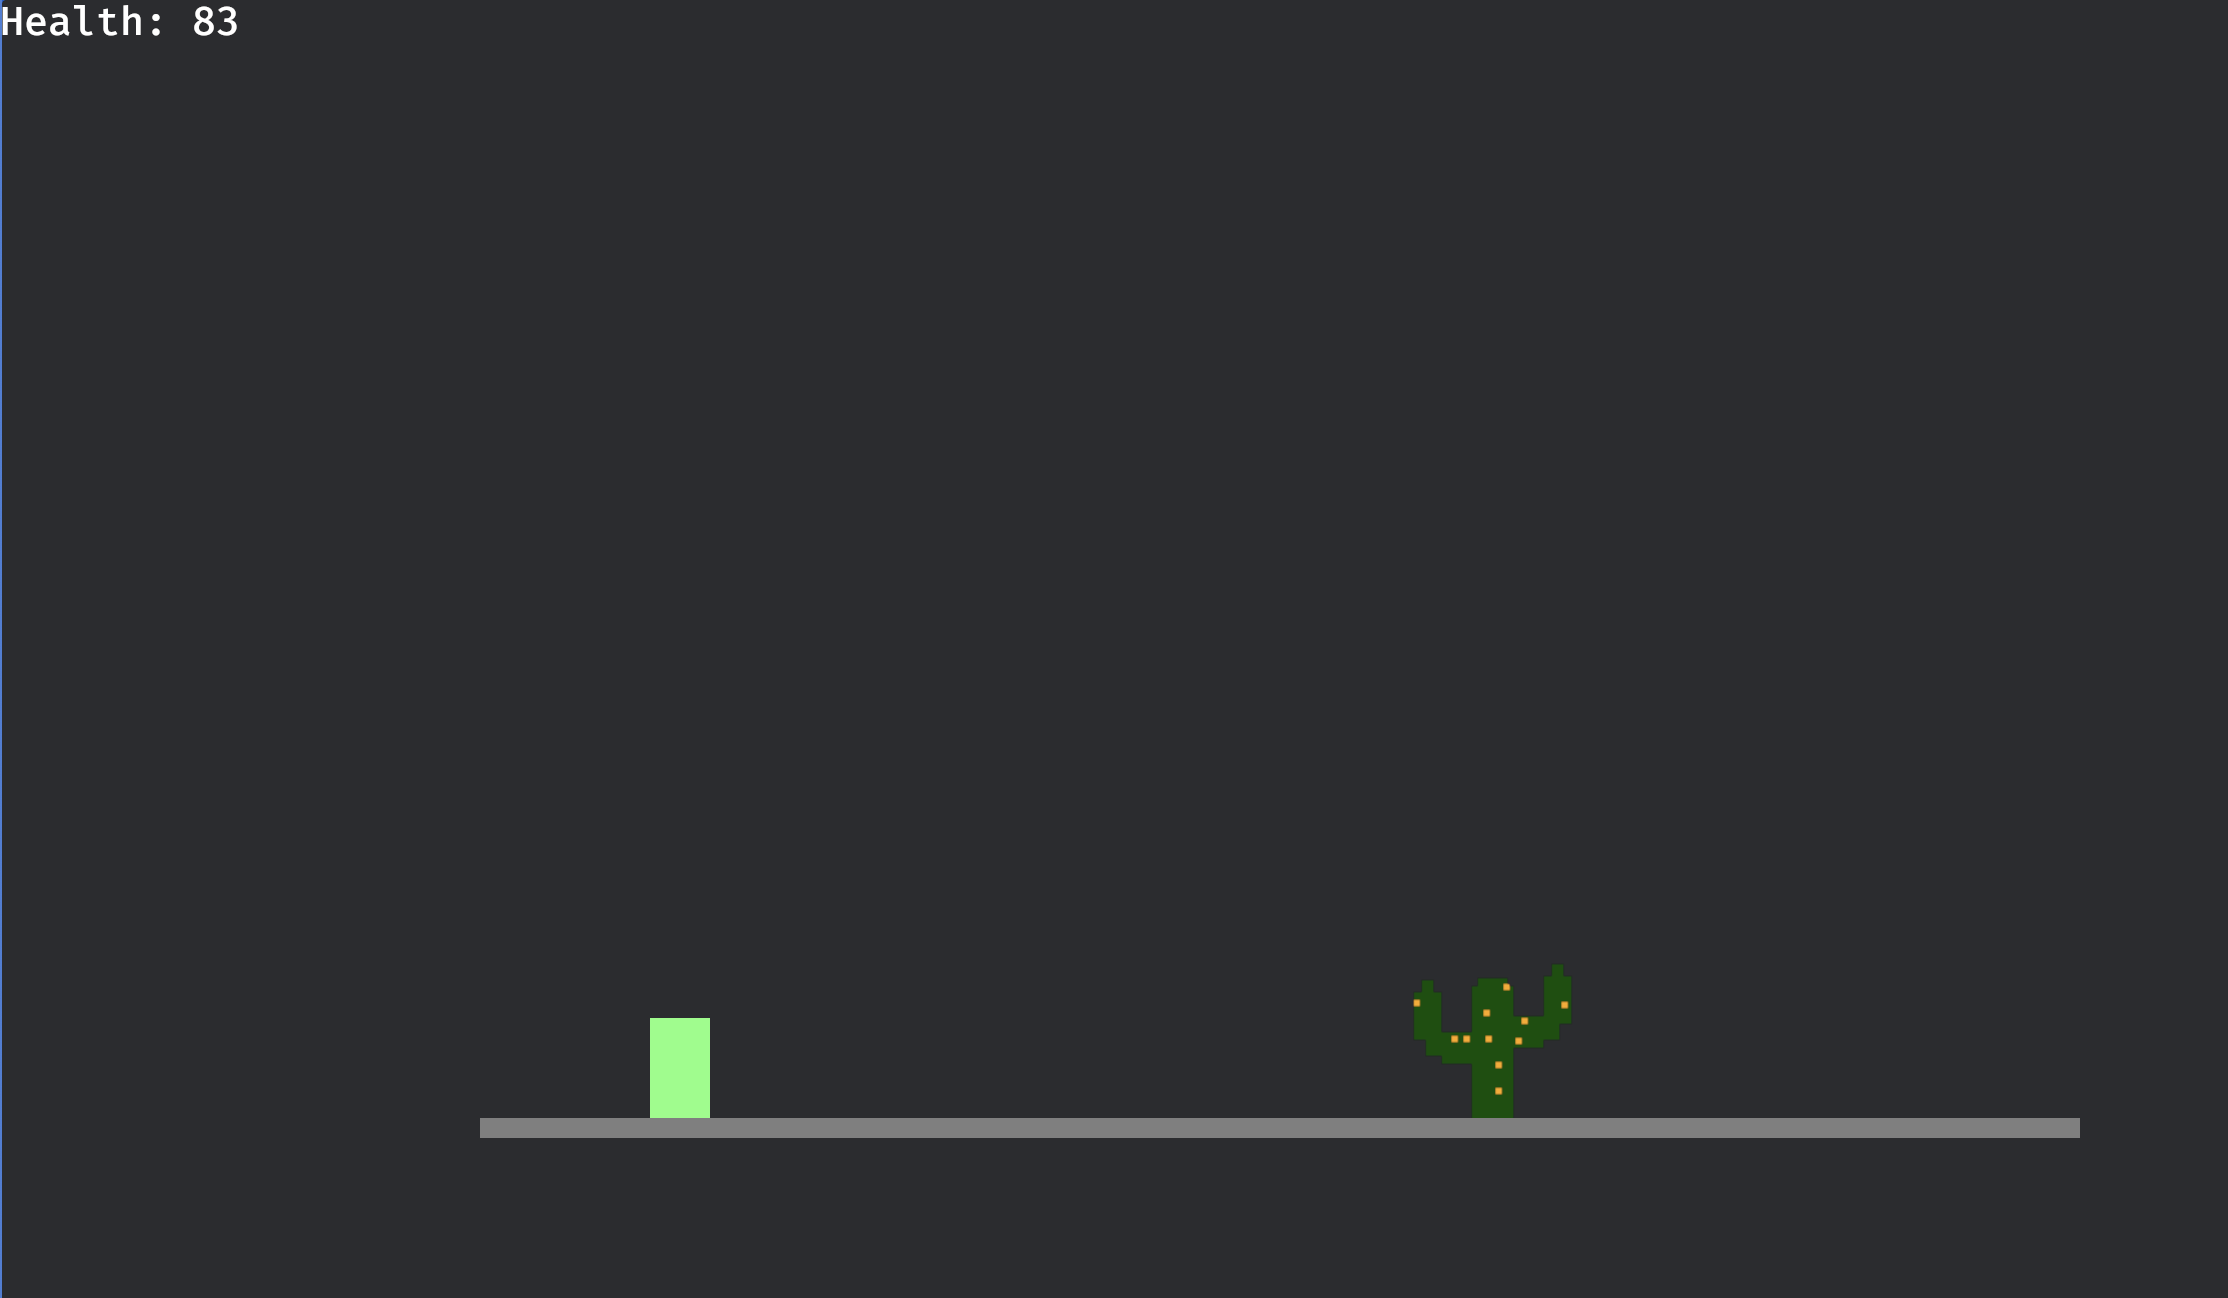
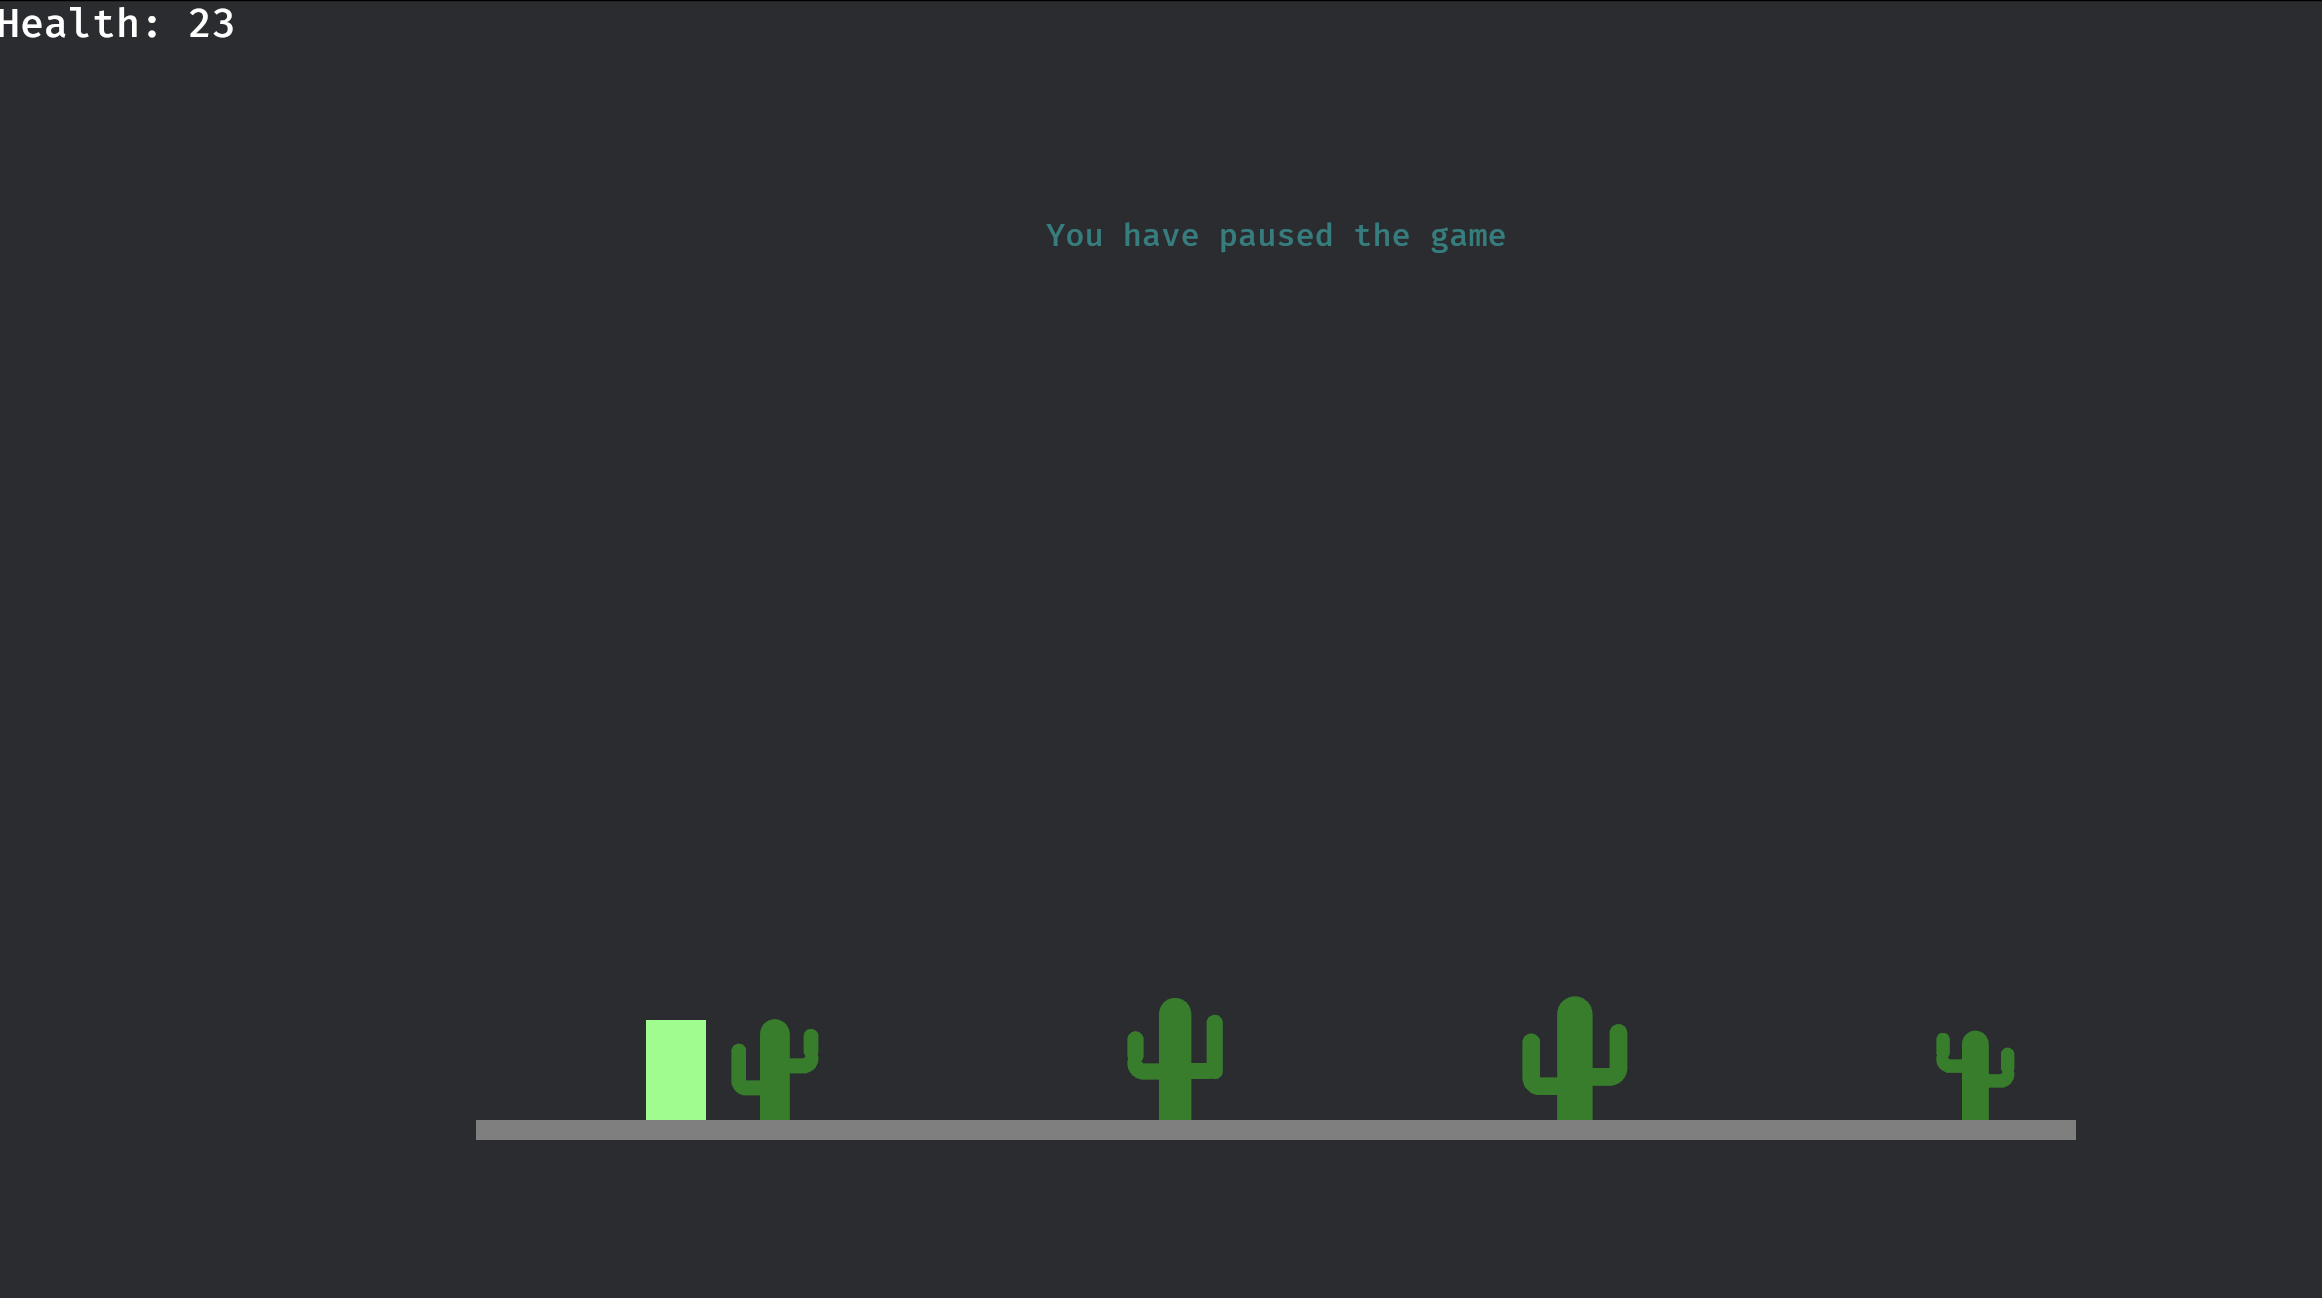
Checkpoint: quality cacti. Randomly generated of various heights and thickness, for trunk and arms.

diff --git a/src/main.rs b/src/main.rs
@@ -9,6 +9,7 @@ use bevy::sprite::Anchor;
 use bevy_prng::WyRand;
 use bevy_rand::prelude::{EntropyPlugin, GlobalEntropy};
 use rand_core::RngCore;
+use rand::Rng;
 
 //region Constants
 const GAME_SPEED: f32 = 400.0;
@@ -27,7 +28,7 @@ const OBSTACLE_COLOR: Color = Color::srgb(1.0, 0.0, 0.0);
 const HEALTH_PICKUP_SIZE: Vec2 = Vec2::new(30.0, 30.0);
 const HEALTH_PICKUP_COLOR: Color = Color::srgb(0.0, 1.0, 0.0);
 const HEALTH_PICKUP_SPAWN_CHANCE: f32 = 0.0; // 30% chance to spawn instead of obstacle
-
+const INITIAL_HEALTH: usize = 99;
 #[derive(Component)]
 struct HealthPickup;
 //endregion
@@ -115,7 +116,6 @@ fn main() {
 fn setup(mut commands: Commands) {
     commands.spawn(Camera2d::default());
 
-    let initial_health = 99;
     // Player
     commands.spawn((
         Player,
@@ -127,11 +127,11 @@ fn setup(mut commands: Commands) {
         },
         Transform::from_xyz(PLAYER_X, GROUND_LEVEL, 0.0),
         Velocity(Vec3::ZERO),
-        Health(initial_health),
+        Health(INITIAL_HEALTH),
         OriginalSize(PLAYER_SIZE),
     ));
 
-    commands.spawn((HealthInfo, Text::new(format!("Health: {}", initial_health))));
+    commands.spawn((HealthInfo, Text::new(format!("Health: {}", INITIAL_HEALTH))));
 
     // Ground
     commands.spawn((
@@ -226,6 +226,7 @@ fn spawn_obstacles(
                 meshes,
                 materials,
                 Vec2::new(obstacle_x, obstacle_y),
+                &mut rng,
             );
             // commands.spawn((
             //     Obstacle,
@@ -286,64 +287,130 @@ fn spawn_cactus(
     mut meshes: ResMut<Assets<Mesh>>,
     mut materials: ResMut<Assets<ColorMaterial>>,
     position: Vec2,
+    rng: &mut GlobalEntropy<WyRand>,
 ) {
-    // Cactus colors
-    let trunk_color = Color::srgb(0.0, 0.5, 0.1); // Dark green
+    let green = Color::srgb(0.0, 0.5, 0.1);
+    let black = Color::BLACK;
+    let blue = Color::srgb(0.0, 0.0, 1.0);
+    let orange = Color::srgb(1.0, 0.5, 0.0);
 
-    // Create parent entity for the whole cactus
-    commands
-        .spawn((
-            Obstacle,
-            Transform::from_xyz(position.x, position.y, 0.0),
-            GlobalTransform::default(),
-            Visibility::Visible,
-        ))
-        .with_children(|parent| {
-            // Main trunk (taller rectangle)
-            parent.spawn((
-                Mesh2d(meshes.add(Rectangle::new(16.0, 48.0)).into()),
-                MeshMaterial2d(materials.add(trunk_color)),
-                Transform::from_xyz(0.0, 24.0, 0.0), // Center vertically
-                Collider {
-                    size: Vec2::new(16.0, 48.0),
-                },
+    // Create the main cactus parent first
+    let cactus_entity = commands.spawn((
+        Obstacle,
+        SpatialBundle {
+            transform: Transform::from_xyz(position.x, position.y, 0.0),
+            ..default()
+        },
+    )).id();
+
+    let max_trunk_width = 20.0;
+    let min_trunk_width = 13.0;
+    let trunk_width = rng.gen_range(min_trunk_width..=max_trunk_width);
+    let trunk_height = rng.gen_range(38..58) as f32;
+    // Add components to main cactus
+    commands.entity(cactus_entity).with_children(|parent| {
+        // Main trunk
+        parent.spawn((
+            Mesh2d(meshes.add(Rectangle::new(trunk_width, trunk_height)).into()),
+            MeshMaterial2d(materials.add(green)),
+            Transform::from_xyz(0.0, trunk_height/2.0, 0.0),
+            Collider { size: Vec2::new(trunk_width, trunk_height) },
+        ));
+
+        // Circle top
+        parent.spawn((
+            Mesh2d(meshes.add(Circle::new(trunk_width/2.0)).into()),
+            MeshMaterial2d(materials.add(green)),
+            Transform::from_xyz(0.0, trunk_height, 0.0),
+        ));
+    });
+
+    let arm_length = trunk_width / 2.0;
+    let min_arm_width = 9.0;
+    let max_arm_width = 20.0;
+
+    let scale = (trunk_width - min_trunk_width) / (max_trunk_width - min_trunk_width);
+    let arm_width = min_arm_width + scale * (max_arm_width - min_arm_width);
+    let curve_radius = arm_length;
+    let arm_height = rng.gen_range(10.0..=30.0);
+    let rect_length = (curve_radius * ((rng.next_u32() % 3 + 1) as f32)).min(trunk_height - arm_height);
+
+    // Create and attach the right arm
+    commands.entity(cactus_entity).with_children(|parent| {
+        parent.spawn((
+            SpatialBundle {
+                transform: Transform::from_xyz(10.0, arm_height, 0.0),
+
+                ..default()
+
+            },
+        )).with_children(|arm| {
+            // Horizontal part
+            arm.spawn((
+                Mesh2d(meshes.add(Rectangle::new(arm_width, arm_length)).into()),
+                MeshMaterial2d(materials.add(green)),
+                // Transform::IDENTITY,
+                // Collider { size: Vec2::new(arm_width, arm_length) },
             ));
 
-            // Semicircle on top of main trunk
-            parent.spawn((
-                Mesh2d(meshes.add(CircularSegment::new(8.0, 3.14/2.0))),
-                MeshMaterial2d(materials.add(trunk_color)),
-                Transform::from_xyz(0.0, 48.0, 0.0), // Position at top of trunk
-                Collider {
-                    size: Vec2::new(16.0, 8.0),
-                },
+            // Curved segment
+            arm.spawn((
+                Mesh2d(meshes.add(CircularSector::new(curve_radius, std::f32::consts::PI / 2.0)).into()),
+                MeshMaterial2d(materials.add(green)),
+                Transform::IDENTITY.with_translation(Vec3::new(arm_width -curve_radius, arm_length/2.0, 0.0))
+                    .with_rotation(Quat::from_rotation_z(5.0*std::f32::consts::PI/4.0 )),
             ));
 
-            // Right arm horizontal base
-            parent.spawn((
-                Mesh2d(meshes.add(Rectangle::new(12.0, 24.0)).into()),
-                MeshMaterial2d(materials.add(trunk_color)),
-                Transform::from_xyz(10.0, 36.0, 0.0)
-                    .with_rotation(Quat::from_rotation_z(3.14 / 2.0)),
-                Collider {
-                    size: Vec2::new(12.0, 24.0),
-                },
+            // Vertical capsule
+            arm.spawn((
+                Mesh2d(meshes.add(Capsule2d::new(curve_radius/2.0, rect_length)).into()),
+                MeshMaterial2d(materials.add(green)),
+                Transform::IDENTITY.with_translation(Vec3::new(arm_width -curve_radius/2.0, arm_length +curve_radius/2.0, 0.0)),
             ));
-
-            
-            //
-            // // Left arm (mirrored)
-            // parent.spawn((
-            //     MaterialMesh2dBundle {
-            //         mesh: meshes.add(Rectangle::new(12.0, 24.0)).into(),
-            //         material: materials.add(arm_color),
-            //         transform: Transform::from_xyz(-10.0, 36.0, 0.0)
-            //             .with_rotation(Quat::from_rotation_z(-0.3)), // -30 degree angle
-            //         ..default()
-            //     },
-            //     Collider::cuboid(6.0, 12.0),
-            // ));
         });
+    });
+
+    let scale = (trunk_width - min_trunk_width) / (max_trunk_width - min_trunk_width);
+    let arm_width = min_arm_width + scale * (max_arm_width - min_arm_width);
+    let arm_length = trunk_width / 2.0;
+    let curve_radius = arm_length;
+    // randomly generate the length of the arm
+    let arm_height = rng.gen_range(10.0..=30.0);
+    let rect_length = (curve_radius * (rng.next_u32() % 3 + 1) as f32).min(trunk_height - arm_height);
+
+
+    // Create and attach the left arm (mirror of right arm)
+    commands.entity(cactus_entity).with_children(|parent| {
+        parent.spawn((
+            Transform::from_xyz(-10.0, arm_height, 0.0), // Negative X for left side
+            Visibility::Visible,
+
+        )).with_children(|arm| {
+            // Horizontal part (mirrored)
+            arm.spawn((
+                Mesh2d(meshes.add(Rectangle::new(arm_width, arm_length)).into()),
+                MeshMaterial2d(materials.add(green)),
+                Transform::IDENTITY,
+            ));
+
+            // Curved segment (mirrored)
+            arm.spawn((
+                Mesh2d(meshes.add(CircularSector::new(curve_radius, std::f32::consts::PI / 2.0)).into()),
+                MeshMaterial2d(materials.add(green)),
+                Transform::IDENTITY
+                    .with_translation(Vec3::new(-(arm_width - curve_radius), arm_length/2.0, 0.0)) // Negative X
+                    .with_rotation(Quat::from_rotation_z(3.0*std::f32::consts::PI/4.0)), // Different rotation for mirror
+            ));
+
+            // Vertical capsule
+            arm.spawn((
+                Mesh2d(meshes.add(Capsule2d::new(curve_radius/2.0, rect_length)).into()),
+                MeshMaterial2d(materials.add(green)),
+                Transform::IDENTITY
+                    .with_translation(Vec3::new(-(arm_width - curve_radius/2.0), arm_length + curve_radius/2.0, 0.0)),
+            ));
+        });
+    });
 }
 
 fn move_obstacles(
@@ -496,17 +563,12 @@ fn restart_game(
 
             // Reset player health
             if let Ok(player_entity) = player_query.get_single() {
-                commands.entity(player_entity).insert(Health(99));
-            }
-
-            // Update health info text
-            if let Ok(mut health_info) = health_info_query.get_single_mut() {
-                health_info.0 = "Health: 3".to_string();
+                commands.entity(player_entity).insert(Health(INITIAL_HEALTH));
             }
 
             // Despawn all obstacles
             for obstacle_entity in obstacle_query.iter() {
-                commands.entity(obstacle_entity).despawn();
+                commands.entity(obstacle_entity).despawn_recursive();
             }
 
             // Despawn the "GAME OVER" text
